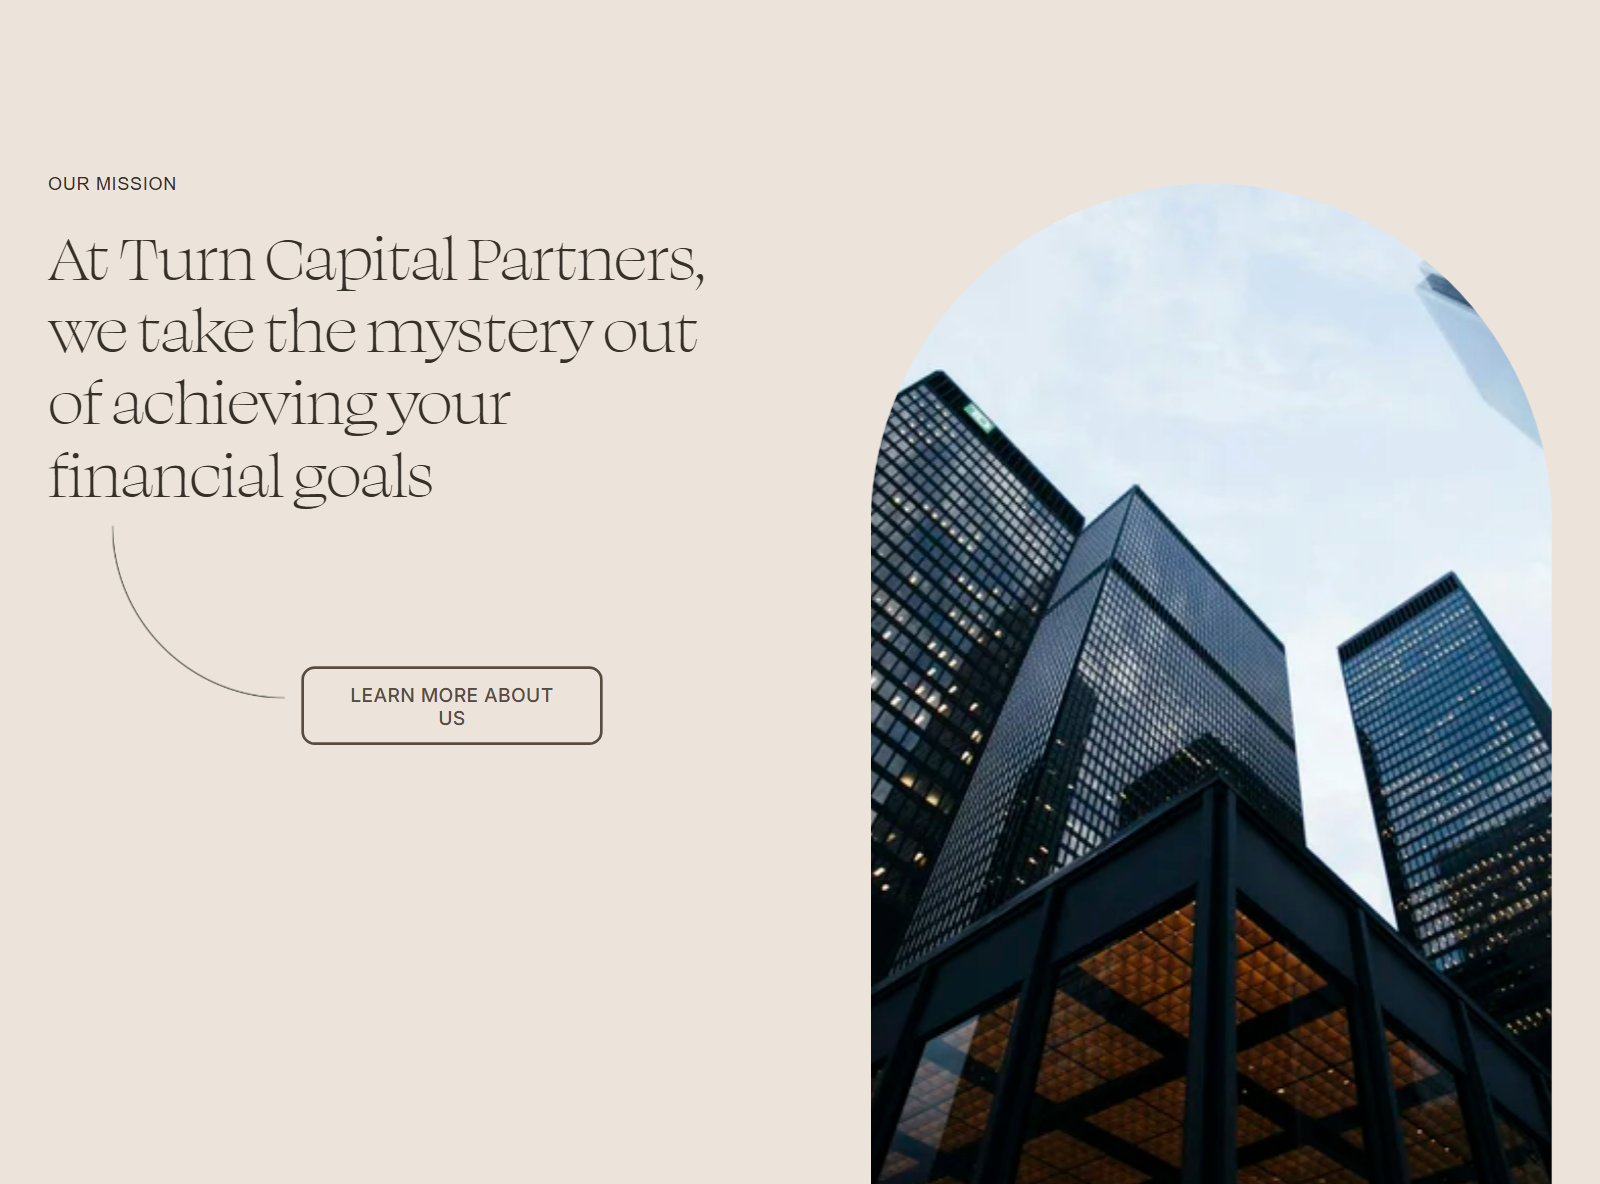
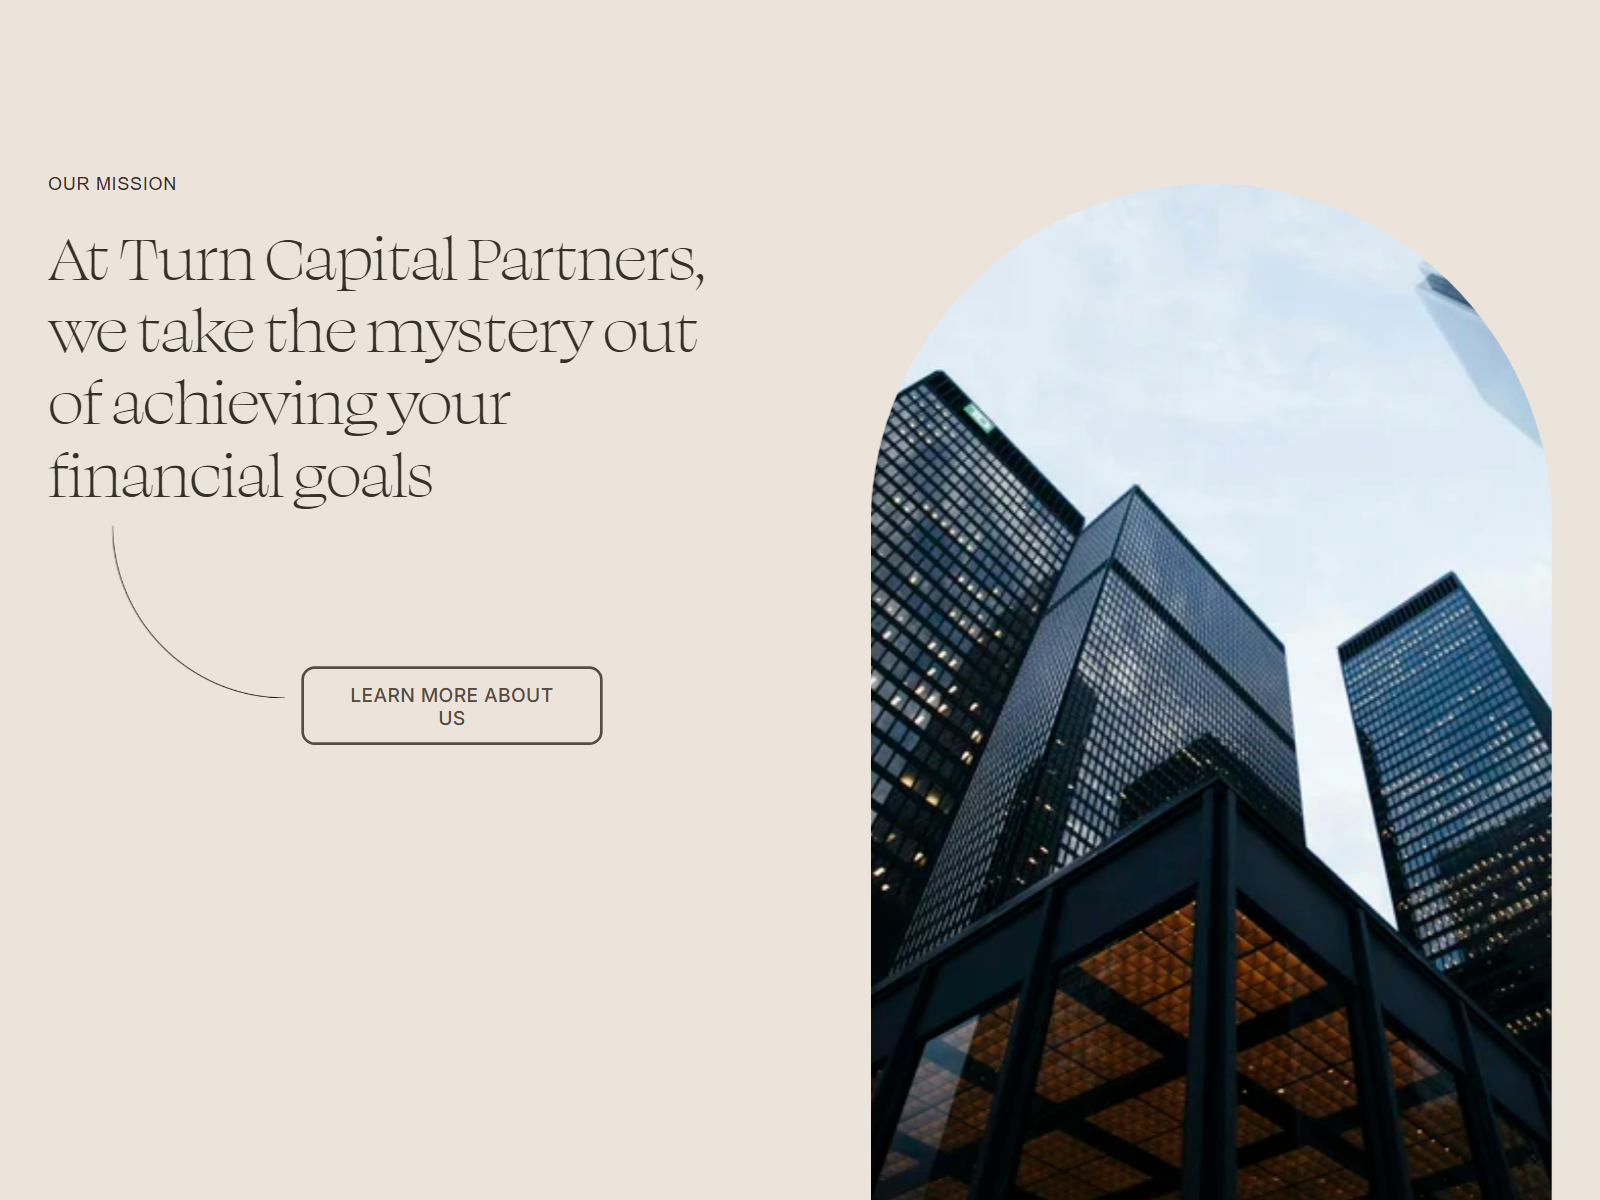
Hide project dates and fix blog covers
- Project pages drop the date and centre the avatar with the byline
- Blog cards crop covers from the left so titles stay readable
- Replace the six oldest blog covers with generated ones and fix their alt text
- Recapture the Turn Capital section shots so no section is clipped

diff --git a/layouts/Post.jsx b/layouts/Post.jsx
@@ -20,8 +20,10 @@ const Layout = ({
   images = [],
   attributes = [],
   pageUrl,
+  slug = [],
 }) => {
   const { siteUrl, authorName } = siteMetaData || {}
+  const isProject = slug[0] === 'projects'
 
   return (
     <>
@@ -58,11 +60,16 @@ const Layout = ({
                 title
               )}
             </h1>
-            <div className="flex items-center justify-center">
-              <div className="basis-1/3 text-right">
+            {/* Projects show no date, so the avatar and byline sit centred as a pair. */}
+            <div className={`flex items-center justify-center ${isProject ? 'gap-6' : ''}`}>
+              <div className={isProject ? 'order-2' : 'basis-1/3 text-right'}>
                 By <strong>{authorName}</strong>
               </div>
-              <div className="not-prose mx-6 box-content h-24 w-24 overflow-hidden rounded-full border-4 border-alpha bg-alpha">
+              <div
+                className={`not-prose box-content h-24 w-24 shrink-0 overflow-hidden rounded-full border-4 border-alpha bg-alpha ${
+                  isProject ? 'order-1' : 'mx-6'
+                }`}
+              >
                 <Image
                   src={authorImage}
                   alt="Picture of the author"
@@ -72,9 +79,11 @@ const Layout = ({
                   fill
                 />
               </div>
-              <div className="basis-1/3 text-left">
-                <Date date={date} />
-              </div>
+              {!isProject && (
+                <div className="basis-1/3 text-left">
+                  <Date date={date} />
+                </div>
+              )}
             </div>
           </header>
 

diff --git a/components/BlogCardVertical.jsx b/components/BlogCardVertical.jsx
@@ -26,7 +26,7 @@ const BlogCardVertical = ({ className, title, images, slug, description, date, t
           animation="fade-in zoom-out"
           wrapperClassName="transition-transform group-hover:scale-105 duration-300 ease-out before:bg-omega-700"
           sizes="(min-width: 768px) 428px, 100vw"
-          className="object-cover"
+          className="object-cover object-left"
           fill
         />
       </Link>

diff --git a/content/blog/css/unlocking-the-power-of-css-nesting.md b/content/blog/css/unlocking-the-power-of-css-nesting.md
@@ -6,8 +6,8 @@ date: '2025-01-12'
 tags:
   - css
 images:
-  - src: /blog/css-nesting.png
-    alt: CCC Nesting
+  - src: /blog/css-nesting-stylesheets.png
+    alt: CSS nesting cover
 ---
 
 CSS is constantly evolving, and one of the latest additions to the language is CSS Nesting. If you're familiar with preprocessors like SCSS or LESS, this new feature might feel like a dream come true. For years, we've been using these tools to make our stylesheets more organized by nesting selectors inside each other. But what if I told you that this can now be done without any extra tools? Yes, native CSS nesting is here, and it's a game changer!

diff --git a/content/blog/svelte/svelte-5-frontend-game-changer-you-need-to-try.md b/content/blog/svelte/svelte-5-frontend-game-changer-you-need-to-try.md
@@ -7,8 +7,8 @@ tags:
   - svelte
   - javascript
 images:
-  - src: /blog/svelte.png
-    alt: Svelte
+  - src: /blog/svelte-5-worth-trying.png
+    alt: Svelte 5 cover
 ---
 
 So, what makes Svelte tick? Well, unlike some of its cousins that rely on a virtual DOM (you know the ones), Svelte takes a completely different, almost magical approach. It compiles your code directly into tiny, pure vanilla JavaScript. Think about that for a second: less bloat, less overhead, and applications that practically fly right out of the box.

diff --git a/content/blog/css/accent-color-in-css.md b/content/blog/css/accent-color-in-css.md
@@ -6,8 +6,8 @@ date: '2025-03-15'
 tags:
   - css
 images:
-  - src: /blog/css-accent-color.png
-    alt: CSS Accent Color
+  - src: /blog/css-accent-color-ui.png
+    alt: CSS accent-color cover
 ---
 
 CSS continues to introduce features that make styling web applications more intuitive and efficient. One such feature is the `accent-color` property, which provides a simple way to customize the appearance of form elements while maintaining consistency across your UI. 

diff --git a/content/blog/tailwind/tailwind-css v4-is-out.md b/content/blog/tailwind/tailwind-css v4-is-out.md
@@ -6,8 +6,8 @@ date: '2025-01-31'
 tags:
   - tailwind
 images:
-  - src: /blog/tailwind-v4.png
-    alt: Tailwind CSS
+  - src: /blog/tailwind-v4-release.png
+    alt: Tailwind CSS v4 cover
 ---
 
 Tailwind CSS v4.0 marks the most significant update yet, bringing a completely reimagined configuration system and a high-performance engine designed for speed and efficiency. This version is optimized for flexibility and fully leverages the latest web technologies.

diff --git a/content/blog/alpine/alpine-js-jquery-for-the-modern-web.md b/content/blog/alpine/alpine-js-jquery-for-the-modern-web.md
@@ -7,8 +7,8 @@ tags:
   - alpine
   - javascript
 images:
-  - src: /blog/alpine-js.png
-    alt: Alpine.js
+  - src: /blog/alpine-js-modern-web.png
+    alt: Alpine.js cover
 ---
 
 Alpine.js is like jQuery’s younger, cooler sibling - designed for today’s web. It’s a tiny (~10kb) JavaScript framework that makes it easy to add interactivity to your site without a lot of setup or fuss.

diff --git a/content/blog/css/meet-the-new-css-hero-text-wrap-pretty.md b/content/blog/css/meet-the-new-css-hero-text-wrap-pretty.md
@@ -6,8 +6,8 @@ date: '2025-01-18'
 tags:
   - css
 images:
-  - src: /blog/css-wrapping.png
-    alt: CCC Wrapping
+  - src: /blog/css-text-wrap-pretty.png
+    alt: CSS text-wrap pretty cover
 ---
 
 We've all encountered it: that one word awkwardly sitting alone at the end of a paragraph. It throws off the clean, organized look you're going for, and frankly, it's just kind of annoying.
